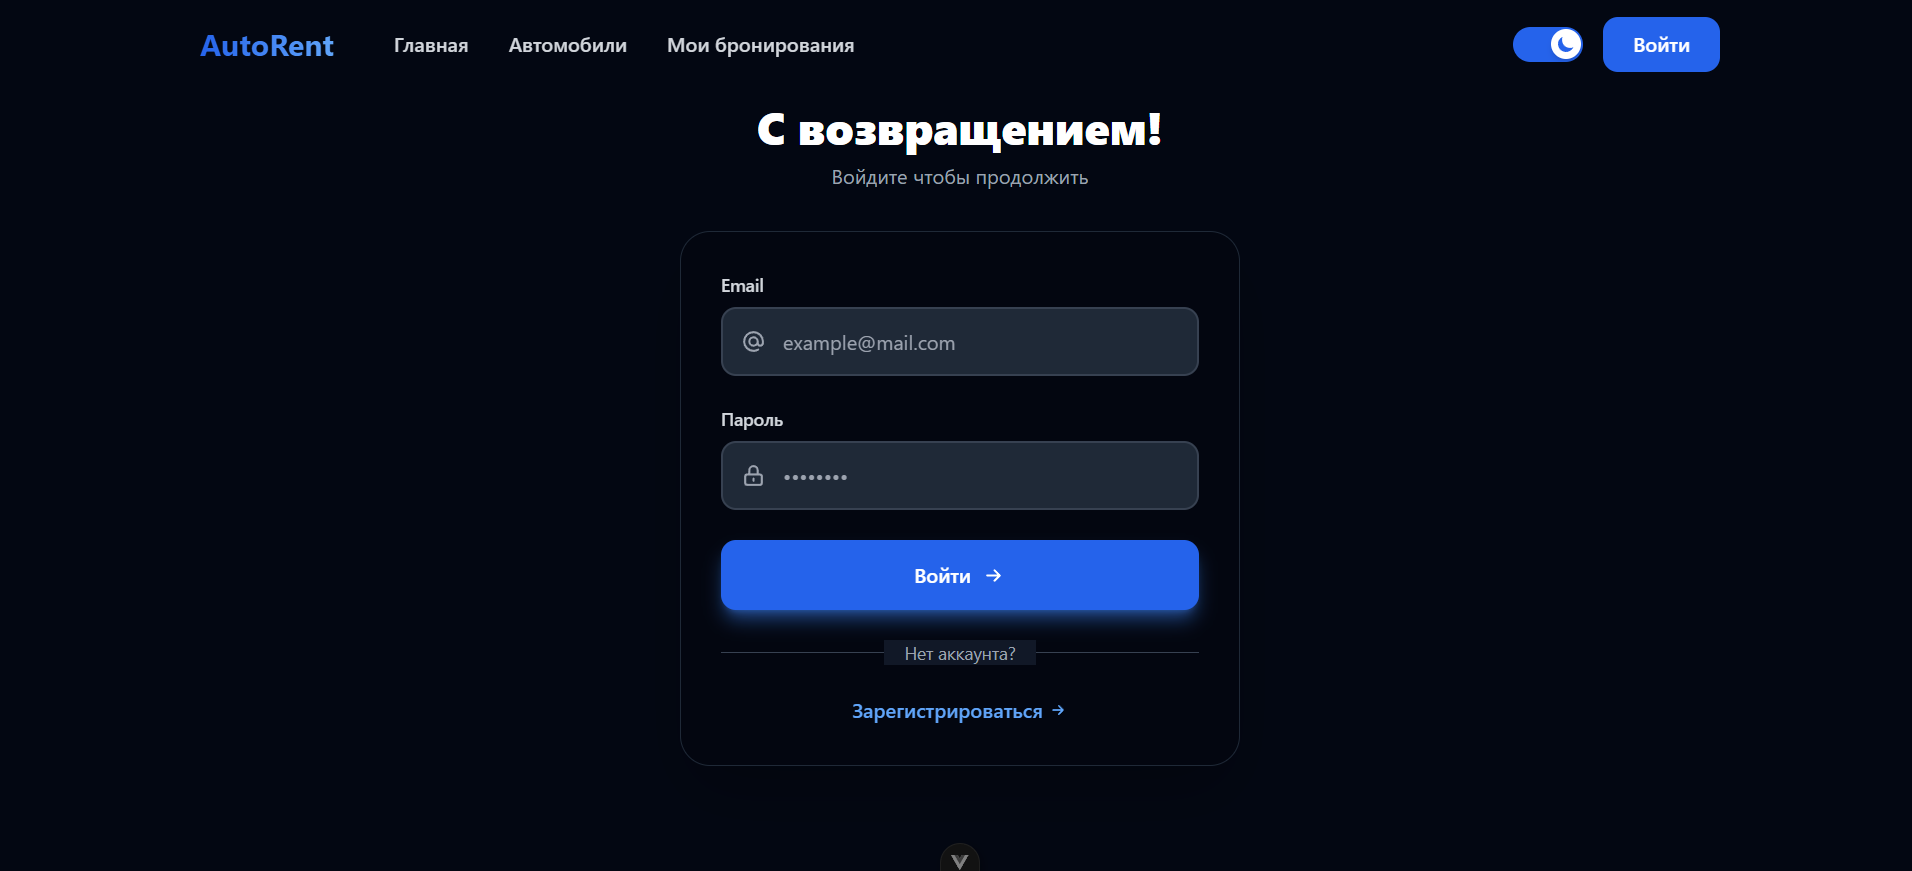
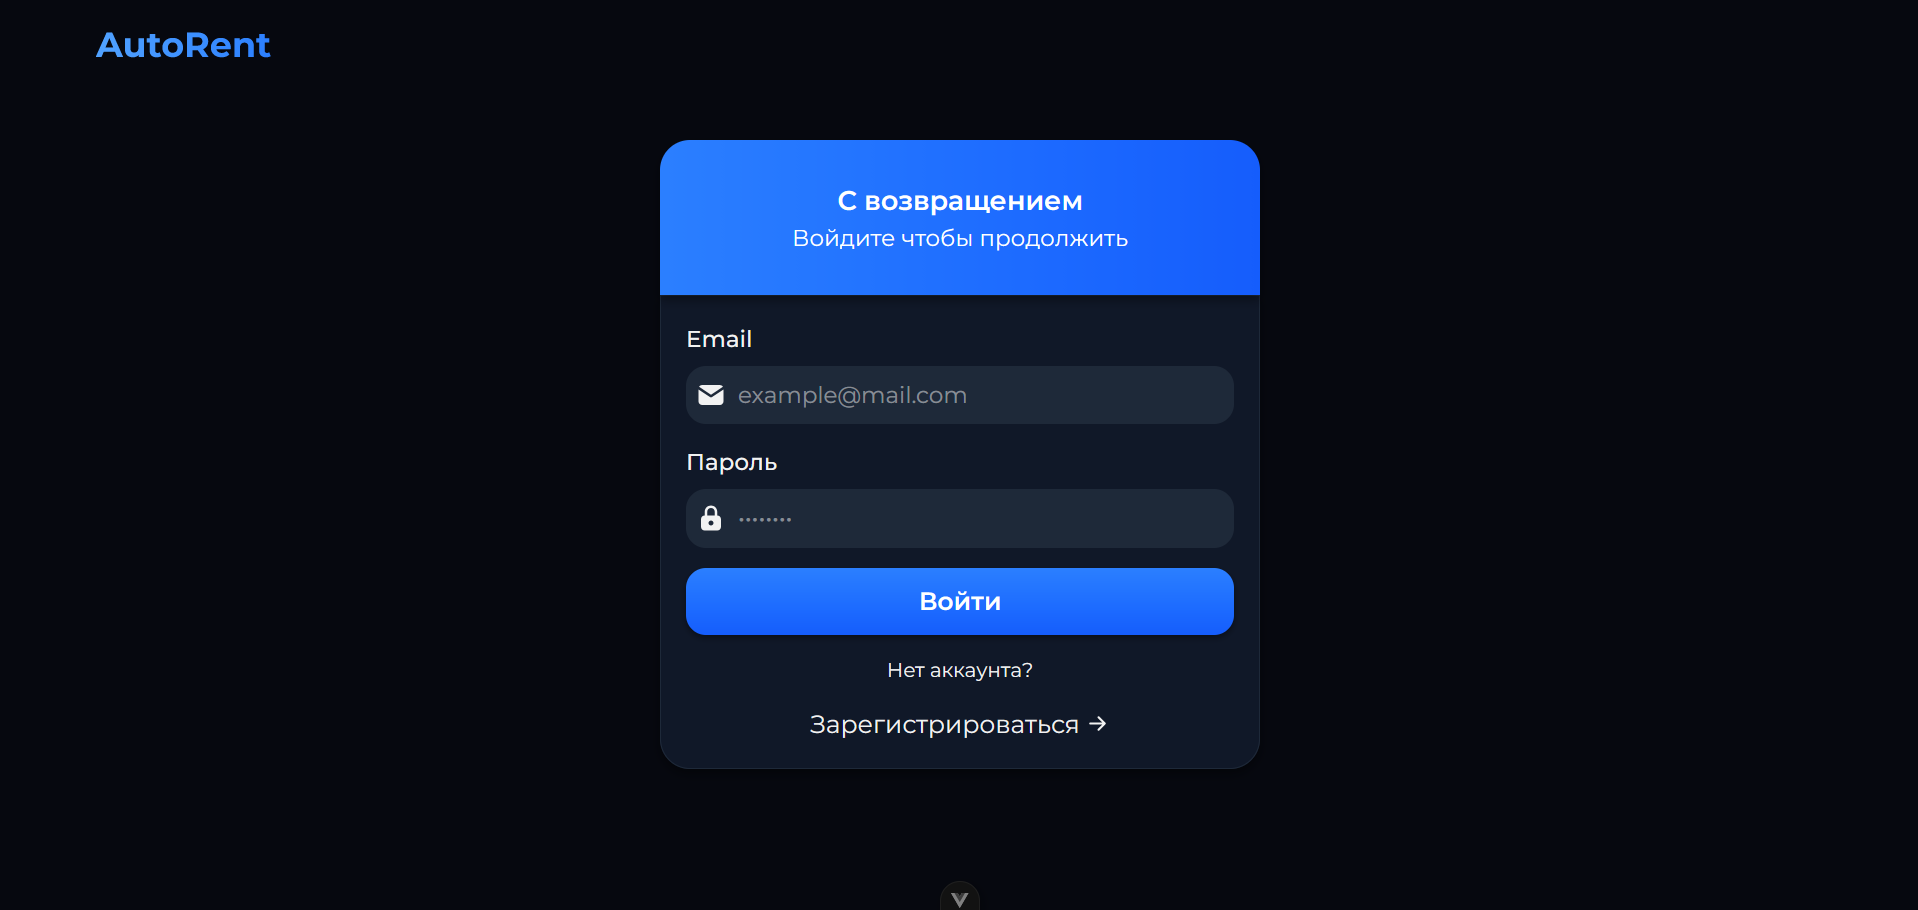
Images UPD

diff --git a/README.md b/README.md
@@ -8,7 +8,7 @@
 - **Vue 3**
 - **TypeScript**
 - **Vite**
-- **Tailwind CSS v3**
+- **Tailwind CSS v4**
 - **Axios**
 - **JWT Authentication**
 
